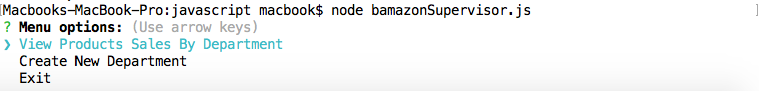
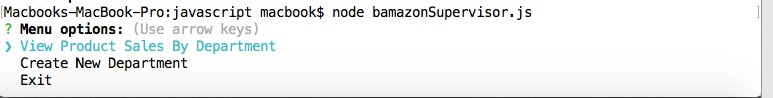
Updated README.MD

diff --git a/assets/javascript/bamazonSupervisor.js b/assets/javascript/bamazonSupervisor.js
@@ -29,9 +29,9 @@ var processSupervisor = function()
     inquirer.prompt({
         type: "list",
         message: "Menu options:",
-        choices: ["View Products Sales By Department", 
-                    "Create New Department", 
-                    "Exit"],
+        choices: ["View Product Sales By Department", 
+                "Create New Department", 
+                "Exit"],
         name: "option"
     }).then(function(response) {
         switch(response.option)
